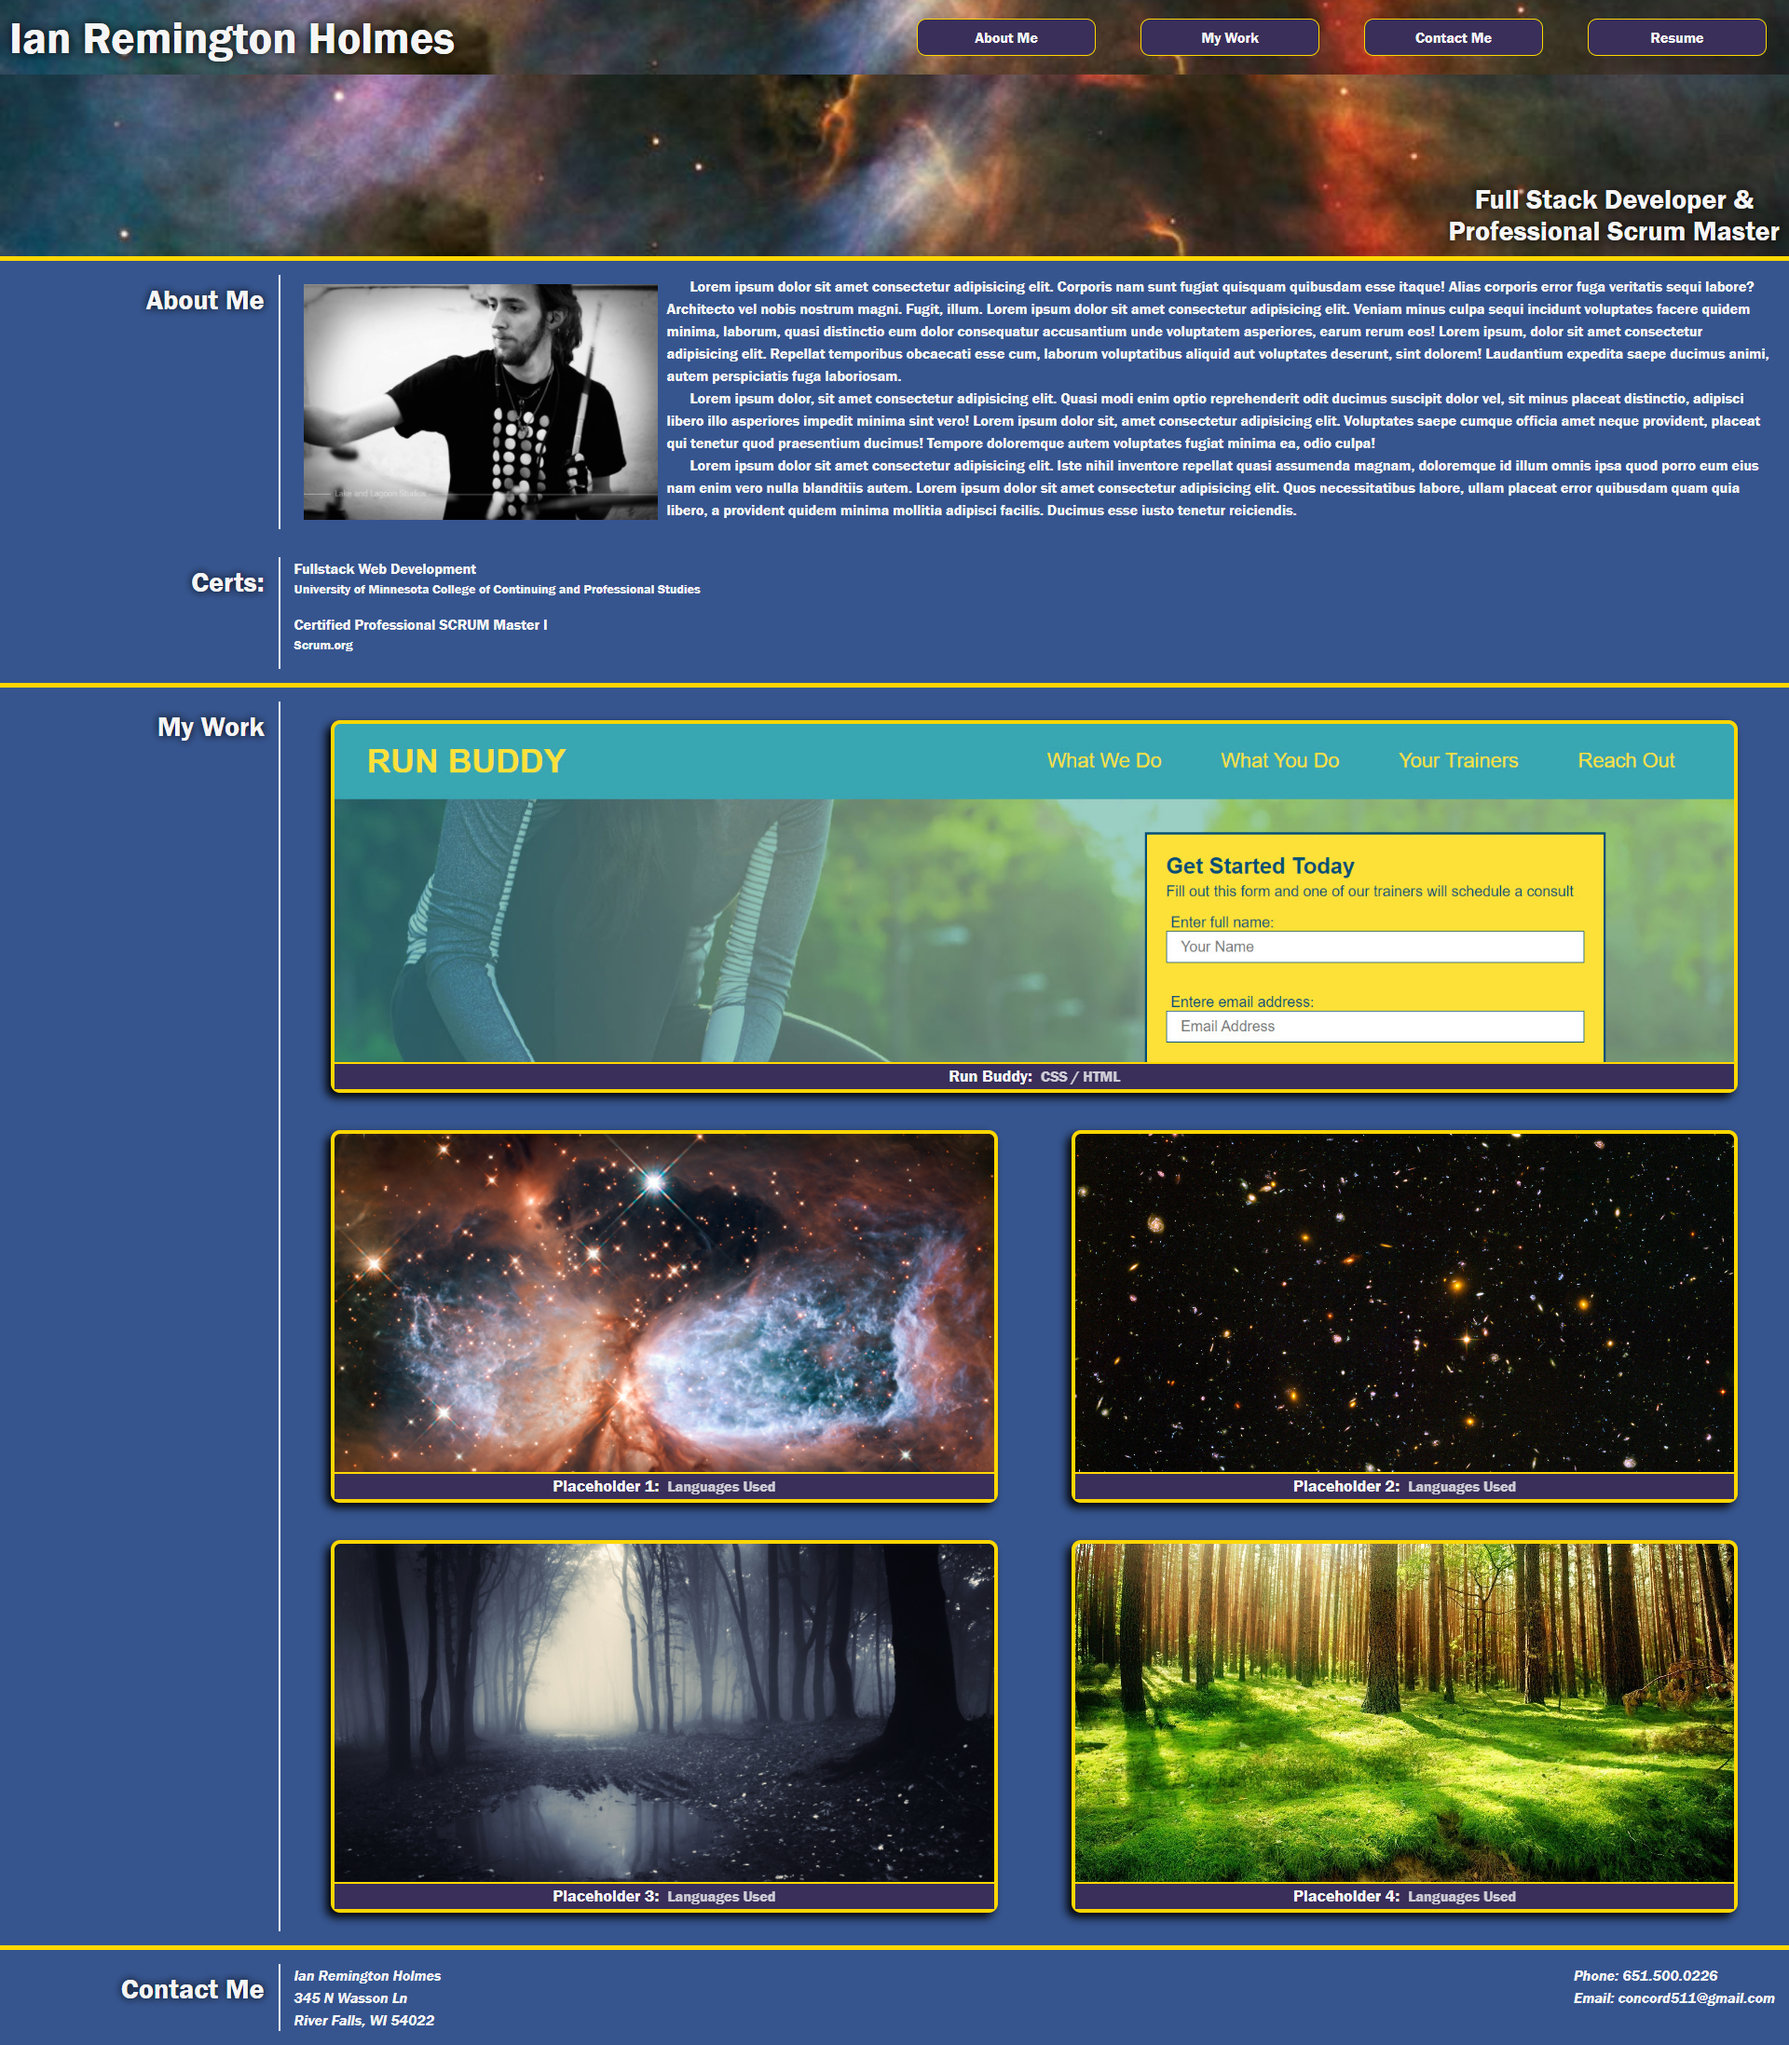
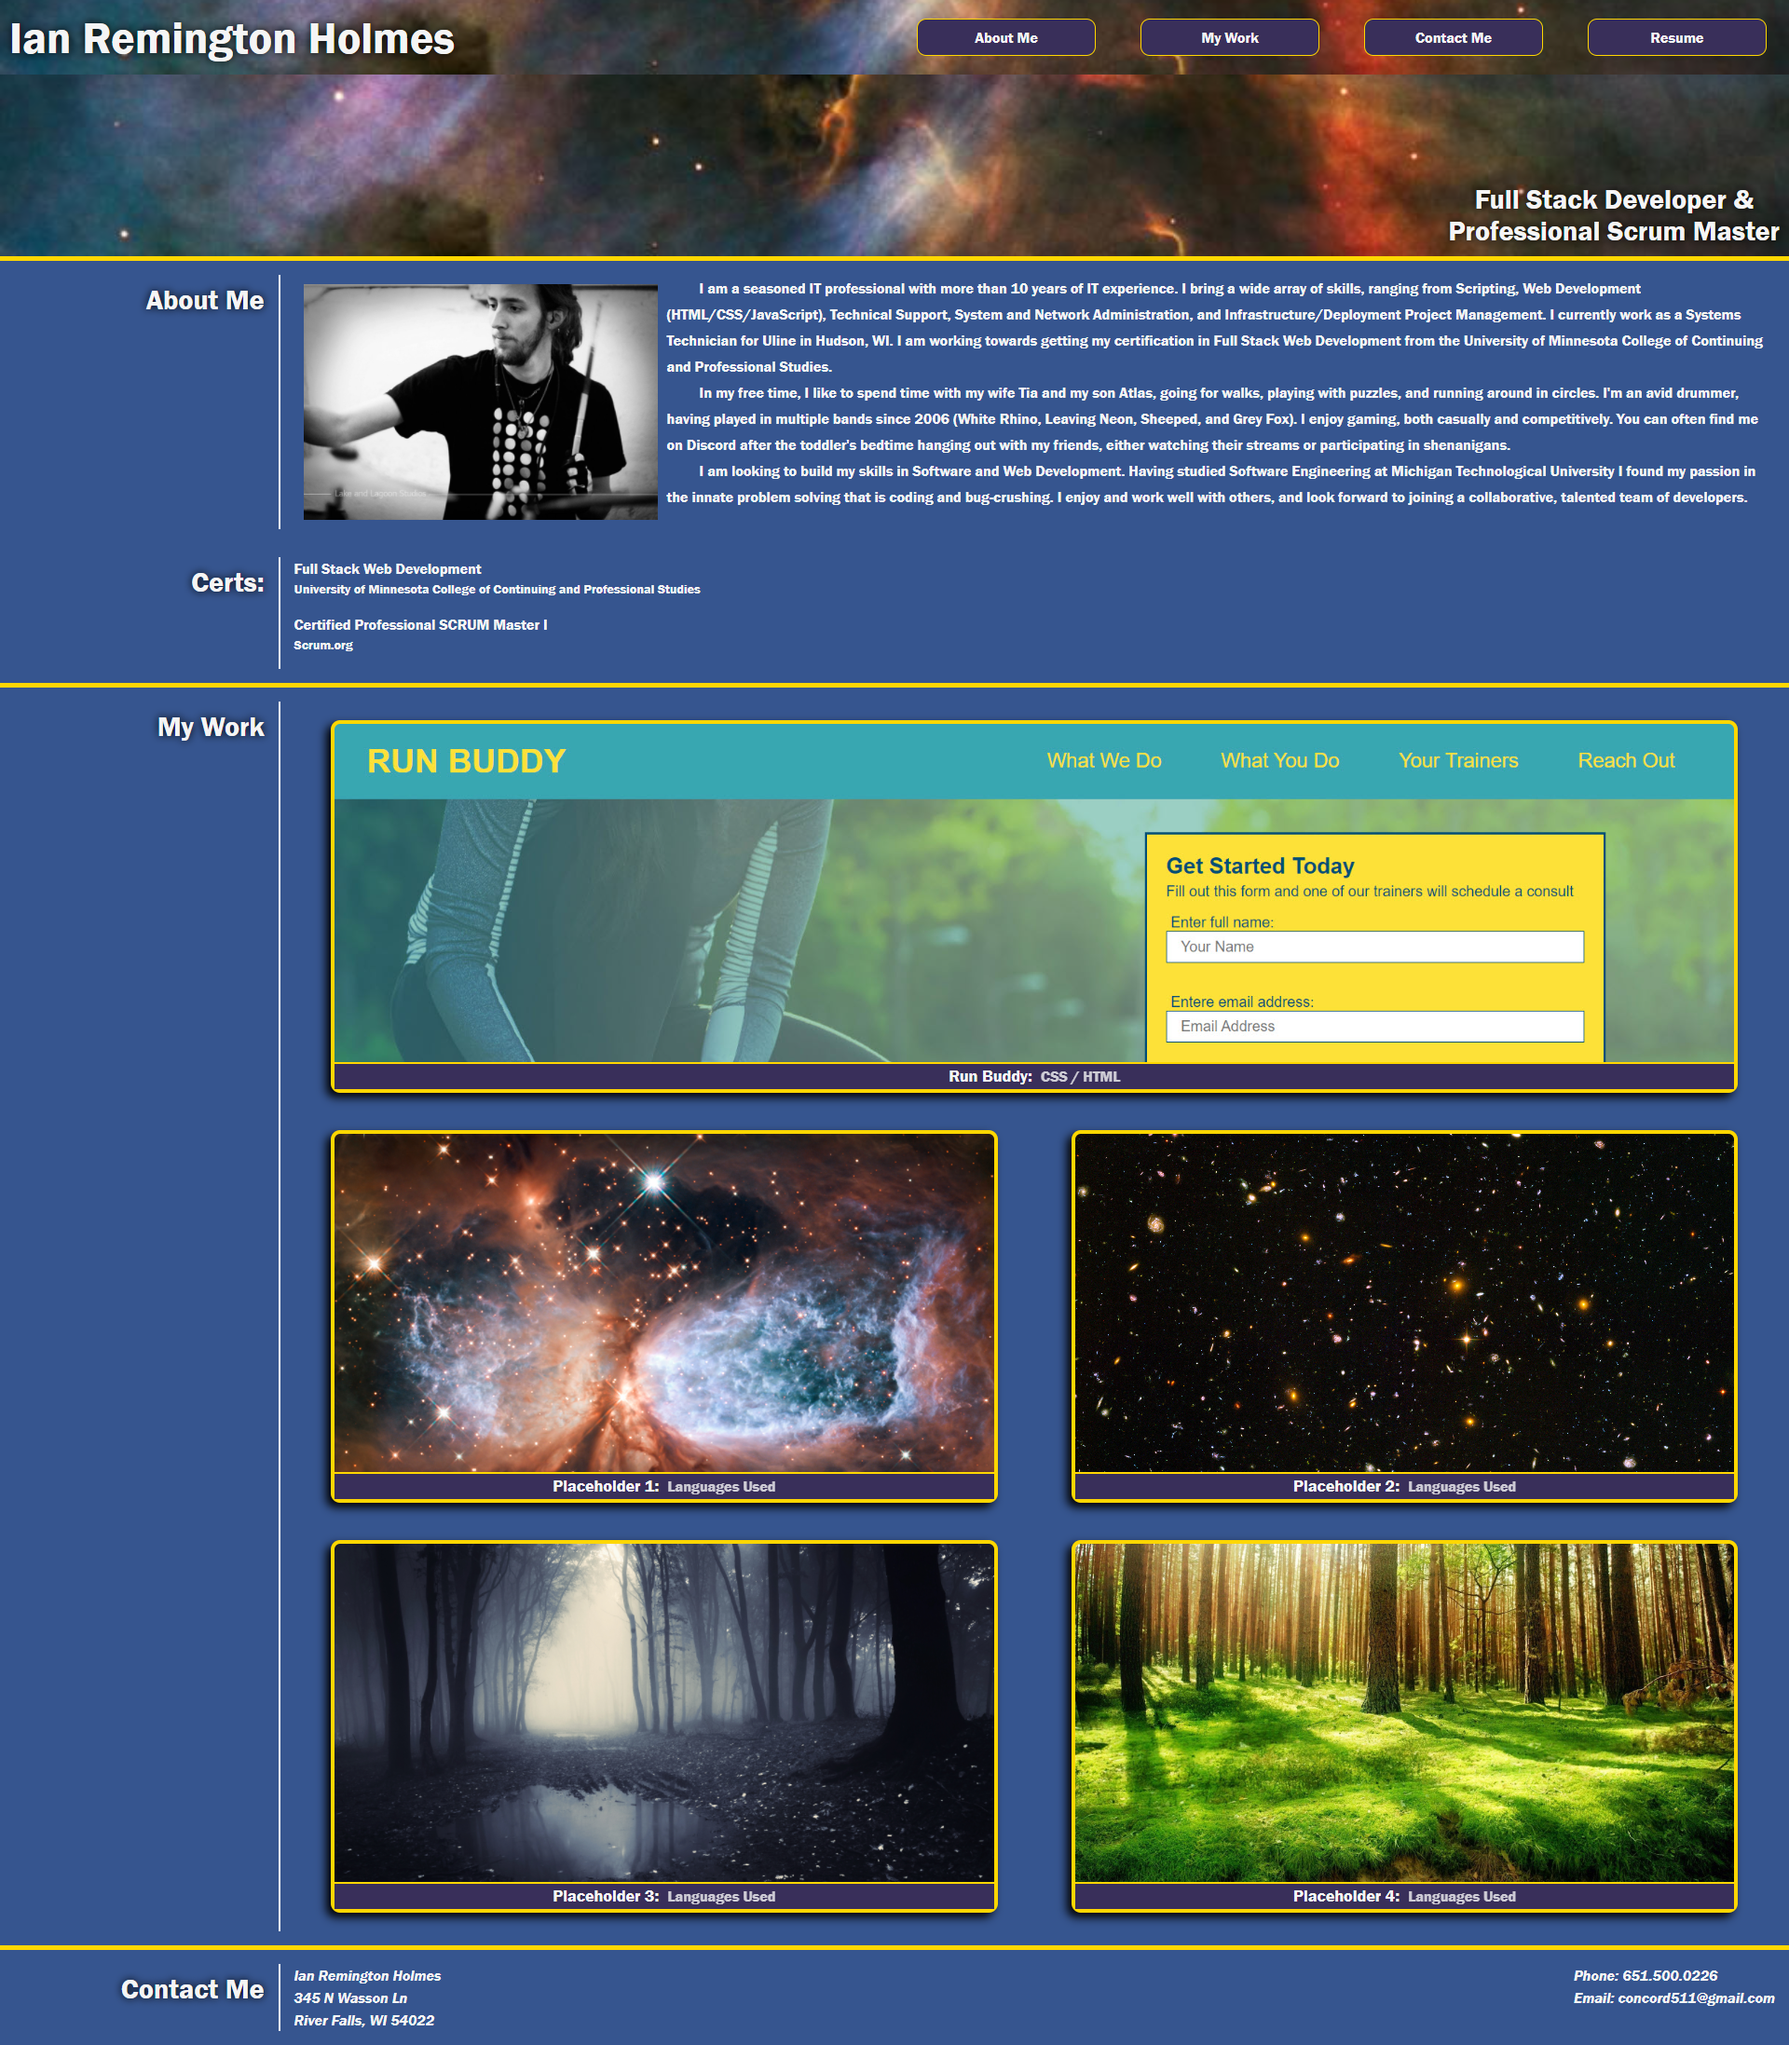
Finalized About Me text and recaptured screenshot

Changed region(s): [[0.375, 0.1239, 1.0, 0.2788]]

diff --git a/index.html b/index.html
@@ -45,15 +45,15 @@
             <div class="about-me-column section-border-left">
                 <img src="assets/images/Ian-Holmes.jpg" alt="Ian Holmes drumming with his band, Sheeped, from 2011" />
                 <p class="indent">
-                    Lorem ipsum dolor sit amet consectetur adipisicing elit. Corporis nam sunt fugiat quisquam quibusdam esse itaque! Alias corporis error fuga veritatis sequi labore? Architecto vel nobis nostrum magni. Fugit, illum. Lorem ipsum dolor sit amet consectetur adipisicing elit. Veniam minus culpa sequi incidunt voluptates facere quidem minima, laborum, quasi distinctio eum dolor consequatur accusantium unde voluptatem asperiores, earum rerum eos! Lorem ipsum, dolor sit amet consectetur adipisicing elit. Repellat temporibus obcaecati esse cum, laborum voluptatibus aliquid aut voluptates deserunt, sint dolorem! Laudantium expedita saepe ducimus animi, autem perspiciatis fuga laboriosam.
+                    I am a seasoned IT professional with more than 10 years of IT experience. I bring a wide array of skills, ranging from Scripting, Web Development (HTML/CSS/JavaScript), Technical Support, System and Network Administration, and Infrastructure/Deployment Project Management. I currently work as a Systems Technician for Uline in Hudson, WI. I am working towards getting my certification in Full Stack Web Development from the University of Minnesota College of Continuing and Professional Studies.
                 </p>
                 <p class="indent">
-                    Lorem ipsum dolor, sit amet consectetur adipisicing elit. Quasi modi enim optio reprehenderit odit ducimus suscipit dolor vel, sit minus placeat distinctio, adipisci libero illo asperiores impedit minima sint vero! Lorem ipsum dolor sit, amet consectetur adipisicing elit. Voluptates saepe cumque officia amet neque provident, placeat qui tenetur quod praesentium ducimus! Tempore doloremque autem voluptates fugiat minima ea, odio culpa!
+                    In my free time, I like to spend time with my wife Tia and my son Atlas, going for walks, playing with puzzles, and running around in circles. I'm an avid drummer, having played in multiple bands since 2006 (White Rhino, Leaving Neon, Sheeped, and Grey Fox). I enjoy gaming, both casually and competitively. You can often find me on Discord after the toddler's bedtime hanging out with my friends, either watching their streams or participating in shenanigans.
                 </p>
                 <p class="indent">
-                    Lorem ipsum dolor sit amet consectetur adipisicing elit. Iste nihil inventore repellat quasi assumenda magnam, doloremque id illum omnis ipsa quod porro eum eius nam enim vero nulla blanditiis autem. Lorem ipsum dolor sit amet consectetur adipisicing elit. Quos necessitatibus labore, ullam placeat error quibusdam quam quia libero, a provident quidem minima mollitia adipisci facilis. Ducimus esse iusto tenetur reiciendis.
+                    I am looking to build my skills in Software and Web Development. Having studied Software Engineering at Michigan Technological University I found my passion in the innate problem solving that is coding and bug-crushing. I enjoy and work well with others, and look forward to joining a collaborative, talented team of developers.
                 </p>
-            </div>    
+            </div>
         </section>
 
         <!-- Certifications Article -->
@@ -61,7 +61,7 @@
             <h2 class="section-title">Certs:</h2>
             <div class="section-border-left">
                 <p class="primary-cert">
-                    Fullstack Web Development
+                    Full Stack Web Development
                 </p>
                 <p class="secondary-cert">
                     University of Minnesota College of Continuing and Professional Studies

diff --git a/assets/css/style.css b/assets/css/style.css
@@ -134,7 +134,8 @@ header nav ul li a:hover {
 }
 
 .indent {
-    text-indent: 25px;
+    text-indent: 35px;
+    line-height: 1.8;
 }
 
 .about-me-column h3 {
